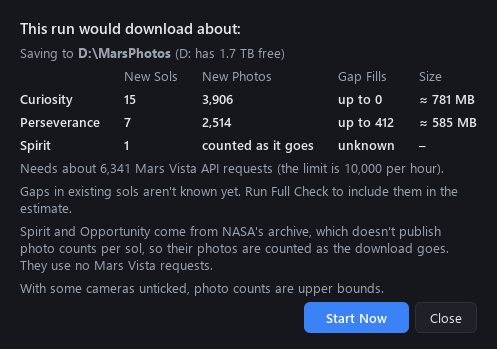
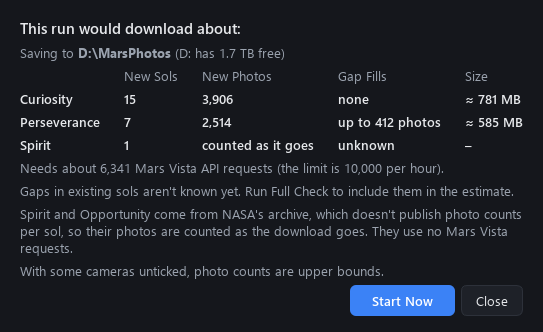
Window Opacity: just the slider, and it applies to menus too (#22)
* Window Opacity is just the Opacity slider

Removes "Only While Downloading or Scanning": the slider's level always applies. Settings files that still have the old option load as before (the key is ignored).

* Window Opacity also applies to menus and dropdown lists

Menus and dropdown lists are windows of their own, so the main window's opacity didn't reach them. They now take it as they open, and open ones follow the slider as it moves.

* Preview: Gap Fills says "up to 412 photos" ("none" when there are none)

* Menus opened by a click start at the window's opacity

Qt's opening animation for menus and dropdown lists drew them solid, so a menu opened by clicking (File) showed solid until it was opened again without the animation. The animation is off while the window is see-through, and every menu gets the opacity before it first opens.

diff --git a/rover_scraper/gui.py b/rover_scraper/gui.py
@@ -19,7 +19,7 @@ import threading
 import time
 import traceback
 
-from PySide6.QtCore import QEvent, QProcess, Qt, QTimer, QUrl
+from PySide6.QtCore import QEvent, QObject, QProcess, Qt, QTimer, QUrl
 from PySide6.QtGui import (QActionGroup, QColor, QDesktopServices, QFont, QIcon, QIntValidator, QKeySequence,
                            QPalette)
 from PySide6.QtWidgets import (QApplication, QCheckBox, QDialog, QDialogButtonBox, QFileDialog, QFrame, QGridLayout,
@@ -778,6 +778,40 @@ class SetupDialog(QDialog):
 
 # ---- main window -----------------------------------------------------------------------------------------
 
+def is_popup(w) -> bool:
+    """A menu or a dropdown list's popup: windows of their own, so the main window's opacity doesn't reach them."""
+    return isinstance(w, QMenu) or w.inherits("QComboBoxPrivateContainer")
+
+
+class PopupOpacity(QObject):
+    """Gives every menu and dropdown list the window's opacity as it opens."""
+
+    def __init__(self, parent=None):
+        super().__init__(parent)
+        self.level = 1.0
+        # The system's own choice of menu animations, to put back when the window is solid again
+        self.effects_default = {e: QApplication.isEffectEnabled(e) for e in
+                                (Qt.UIEffect.UI_AnimateMenu, Qt.UIEffect.UI_FadeMenu, Qt.UIEffect.UI_AnimateCombo)}
+
+    @classmethod
+    def for_app(cls, app: QApplication) -> "PopupOpacity":
+        """One filter per app, shared by every main window (a second filter would undo the first's level)."""
+        existing = app.findChild(cls, "popupOpacity")
+        if existing is not None:
+            return existing
+        f = cls(app)
+        f.setObjectName("popupOpacity")
+        app.installEventFilter(f)
+        return f
+
+    def eventFilter(self, obj, event) -> bool:
+        if (event.type() in (QEvent.Type.Polish, QEvent.Type.Show) and isinstance(obj, QWidget) and obj.isWindow()
+                and is_popup(obj)):
+            if abs(obj.windowOpacity() - self.level) > 0.005:
+                obj.setWindowOpacity(self.level)
+        return False
+
+
 class MainWindow(QMainWindow):
     POLL_MS = 200
 
@@ -822,6 +856,7 @@ class MainWindow(QMainWindow):
         self.resize(min(1200, avail.width() - 40) if avail else 1200,
                     min(1000, avail.height() - 60) if avail else 900)
         self._build()
+        self.popup_opacity = PopupOpacity.for_app(app)
         self._build_menus()
         self._load_settings_into_widgets()
         self._refresh_library()
@@ -1436,7 +1471,6 @@ class MainWindow(QMainWindow):
         if mode != "idle":
             self.cancel = threading.Event()
         self._validate()
-        self._apply_opacity()
 
     # ---- background tasks --------------------------------------------------------------------------------
 
@@ -1710,7 +1744,7 @@ class MainWindow(QMainWindow):
         return menu
 
     def _build_opacity_menu(self, menu: QMenu) -> None:
-        """View > Window Opacity: one slider (the window changes as it moves) and one option."""
+        """View > Window Opacity: one slider. The window changes as it moves."""
         row = QWidget()
         row.setObjectName("menuRow")
         h = QHBoxLayout(row)
@@ -1731,49 +1765,30 @@ class MainWindow(QMainWindow):
         slider_act = QWidgetAction(menu)
         slider_act.setDefaultWidget(row)
         menu.addAction(slider_act)
-        self.act_opacity_busy = menu.addAction("Only While Downloading or Scanning")
-        self.act_opacity_busy.setCheckable(True)
-        self.act_opacity_busy.setChecked(self.settings.opacity_only_while_busy)
-        self.act_opacity_busy.toggled.connect(self._set_opacity_busy)
-        # After the slider moves, its level shows for a moment even when it only applies while busy.
-        self.previewing_opacity = False
-        self.opacity_preview_timer = QTimer(self, singleShot=True, interval=1200)
-        self.opacity_preview_timer.timeout.connect(self._end_opacity_preview)
-        self.opacity_slider.sliderReleased.connect(self.opacity_preview_timer.start)
         self.opacity_slider.valueChanged.connect(self._opacity_moved)
         self._apply_opacity()
 
     def _opacity_moved(self, value: int) -> None:
         self.settings.window_opacity = value
         self.opacity_value.setText(f"{value} %")
-        s = self.opacity_slider
-        if s.isSliderDown() or s.hasFocus() or s.underMouse():       # moved by hand, not by Reset View Options
-            self.previewing_opacity = True
-            self.opacity_preview_timer.start()
-        self._apply_opacity()
-        self._save_settings()
-
-    def _end_opacity_preview(self) -> None:
-        if self.opacity_slider.isSliderDown():          # still held: keep showing it until released
-            return
-        self.previewing_opacity = False
-        self._apply_opacity()
-
-    def _set_opacity_busy(self, on: bool) -> None:
-        self.settings.opacity_only_while_busy = on
         self._apply_opacity()
         self._save_settings()
 
     def _apply_opacity(self) -> None:
-        """The window's opacity from View > Window Opacity. With "Only While Downloading or Scanning" on, the
-        window is solid unless a download or scan is running (or the slider is being moved, to show the level)."""
-        if not hasattr(self, "opacity_slider"):
-            return
-        busy = self.mode in ("download", "scan", "full")
-        solid = self.settings.opacity_only_while_busy and not busy and not self.previewing_opacity
-        level = 1.0 if solid else self.settings.window_opacity / 100
-        if abs(self.windowOpacity() - level) > 0.005:
-            self.setWindowOpacity(level)
+        """The window's opacity from View > Window Opacity, also on the menus and dropdown lists that are open
+        (each is a separate window; ones opened later get it from PopupOpacity)."""
+        level = self.settings.window_opacity / 100
+        self.popup_opacity.level = level
+        # Every menu, not only open ones: a menu that has its opacity before it first opens shows it from the start.
+        for w in [self] + [p for p in QApplication.topLevelWidgets() if is_popup(p)] + self.findChildren(QMenu):
+            if abs(w.windowOpacity() - level) > 0.005:
+                w.setWindowOpacity(level)
+        # Qt's opening animation for menus and dropdown lists (used when a menu is opened by a click) draws them
+        # solid, ignoring the opacity, so it's off while the window is see-through.
+        solid = level >= 0.995
+        for effect in (Qt.UIEffect.UI_AnimateMenu, Qt.UIEffect.UI_FadeMenu, Qt.UIEffect.UI_AnimateCombo):
+            if QApplication.isEffectEnabled(effect) != (solid and self.popup_opacity.effects_default[effect]):
+                QApplication.setEffectEnabled(effect, solid and self.popup_opacity.effects_default[effect])
 
     def _theme_menu_hovered(self, act, theme_acts: list) -> None:
         """The pointer is on something in View > Theme that isn't a theme (a group's name): show the saved theme
@@ -1784,7 +1799,7 @@ class MainWindow(QMainWindow):
 
     # View menu choices, and the download options in the left column (File > Settings > Reset Settings to Defaults).
     VIEW_FIELDS = ("data_unit", "speed_unit", "speed_window", "theme", "show_log", "collapsed_cards",
-                   "window_opacity", "opacity_only_while_busy")
+                   "window_opacity")
     OPTION_FIELDS = ("rovers", "excluded_cameras", "check_existing", "sol_from", "sol_to", "workers", "limit_on",
                      "limit_files", "limit_period")
 
@@ -1802,9 +1817,6 @@ class MainWindow(QMainWindow):
         self._set_log_visible(self.settings.show_log)
         self._apply_folded_cards()
         self.opacity_slider.setValue(self.settings.window_opacity)     # also updates the value beside it
-        self.act_opacity_busy.blockSignals(True)
-        self.act_opacity_busy.setChecked(self.settings.opacity_only_while_busy)
-        self.act_opacity_busy.blockSignals(False)
         self._apply_opacity()
         self._apply_theme()
         self._update_counters()
@@ -2490,7 +2502,7 @@ class MainWindow(QMainWindow):
                 unknown_gaps = True
             total_requests += row["requests"]
             gap_text = "not included" if not self._preview_check_existing else (
-                "unknown" if gaps is None else f"up to {gaps:,}")
+                "unknown" if gaps is None else "none" if gaps == 0 else f"up to {count(gaps, 'photo')}")
             if row["new_photos"] is None:       # NASA PDS rover: counted only while downloading
                 any_pds = True
                 photo_text, size_text = "counted as it goes", "–"

diff --git a/rover_scraper/settings.py b/rover_scraper/settings.py
@@ -37,7 +37,6 @@ class Settings:
     collapsed_cards: list[str] = field(default_factory=list)   # titles of cards folded to their title bar
     verbose_log: bool = False            # View > Detailed Activity Log
     window_opacity: int = 100            # percent (View > Window Opacity)
-    opacity_only_while_busy: bool = False   # apply it only while downloading or scanning; solid otherwise
 
     @classmethod
     def load(cls, path: str) -> "Settings":

diff --git a/README.md b/README.md
@@ -127,10 +127,9 @@ theme you had.
 
 ### Window opacity
 
-![View > Window Opacity: an Opacity slider at 100 %, and Only While Downloading or Scanning](.github/readme/menu_opacity.png)
+![View > Window Opacity: an Opacity slider at 100 %](.github/readme/menu_opacity.png)
 
-*View > Window Opacity* makes the window see-through. The window changes as the slider moves (30–100 %). With
-*Only While Downloading or Scanning* ticked, the window stays solid the rest of the time.
+*View > Window Opacity* makes the window see-through. The window changes as the slider moves (30–100 %).
 
 <details>
 <summary><b>Every menu item</b></summary>
